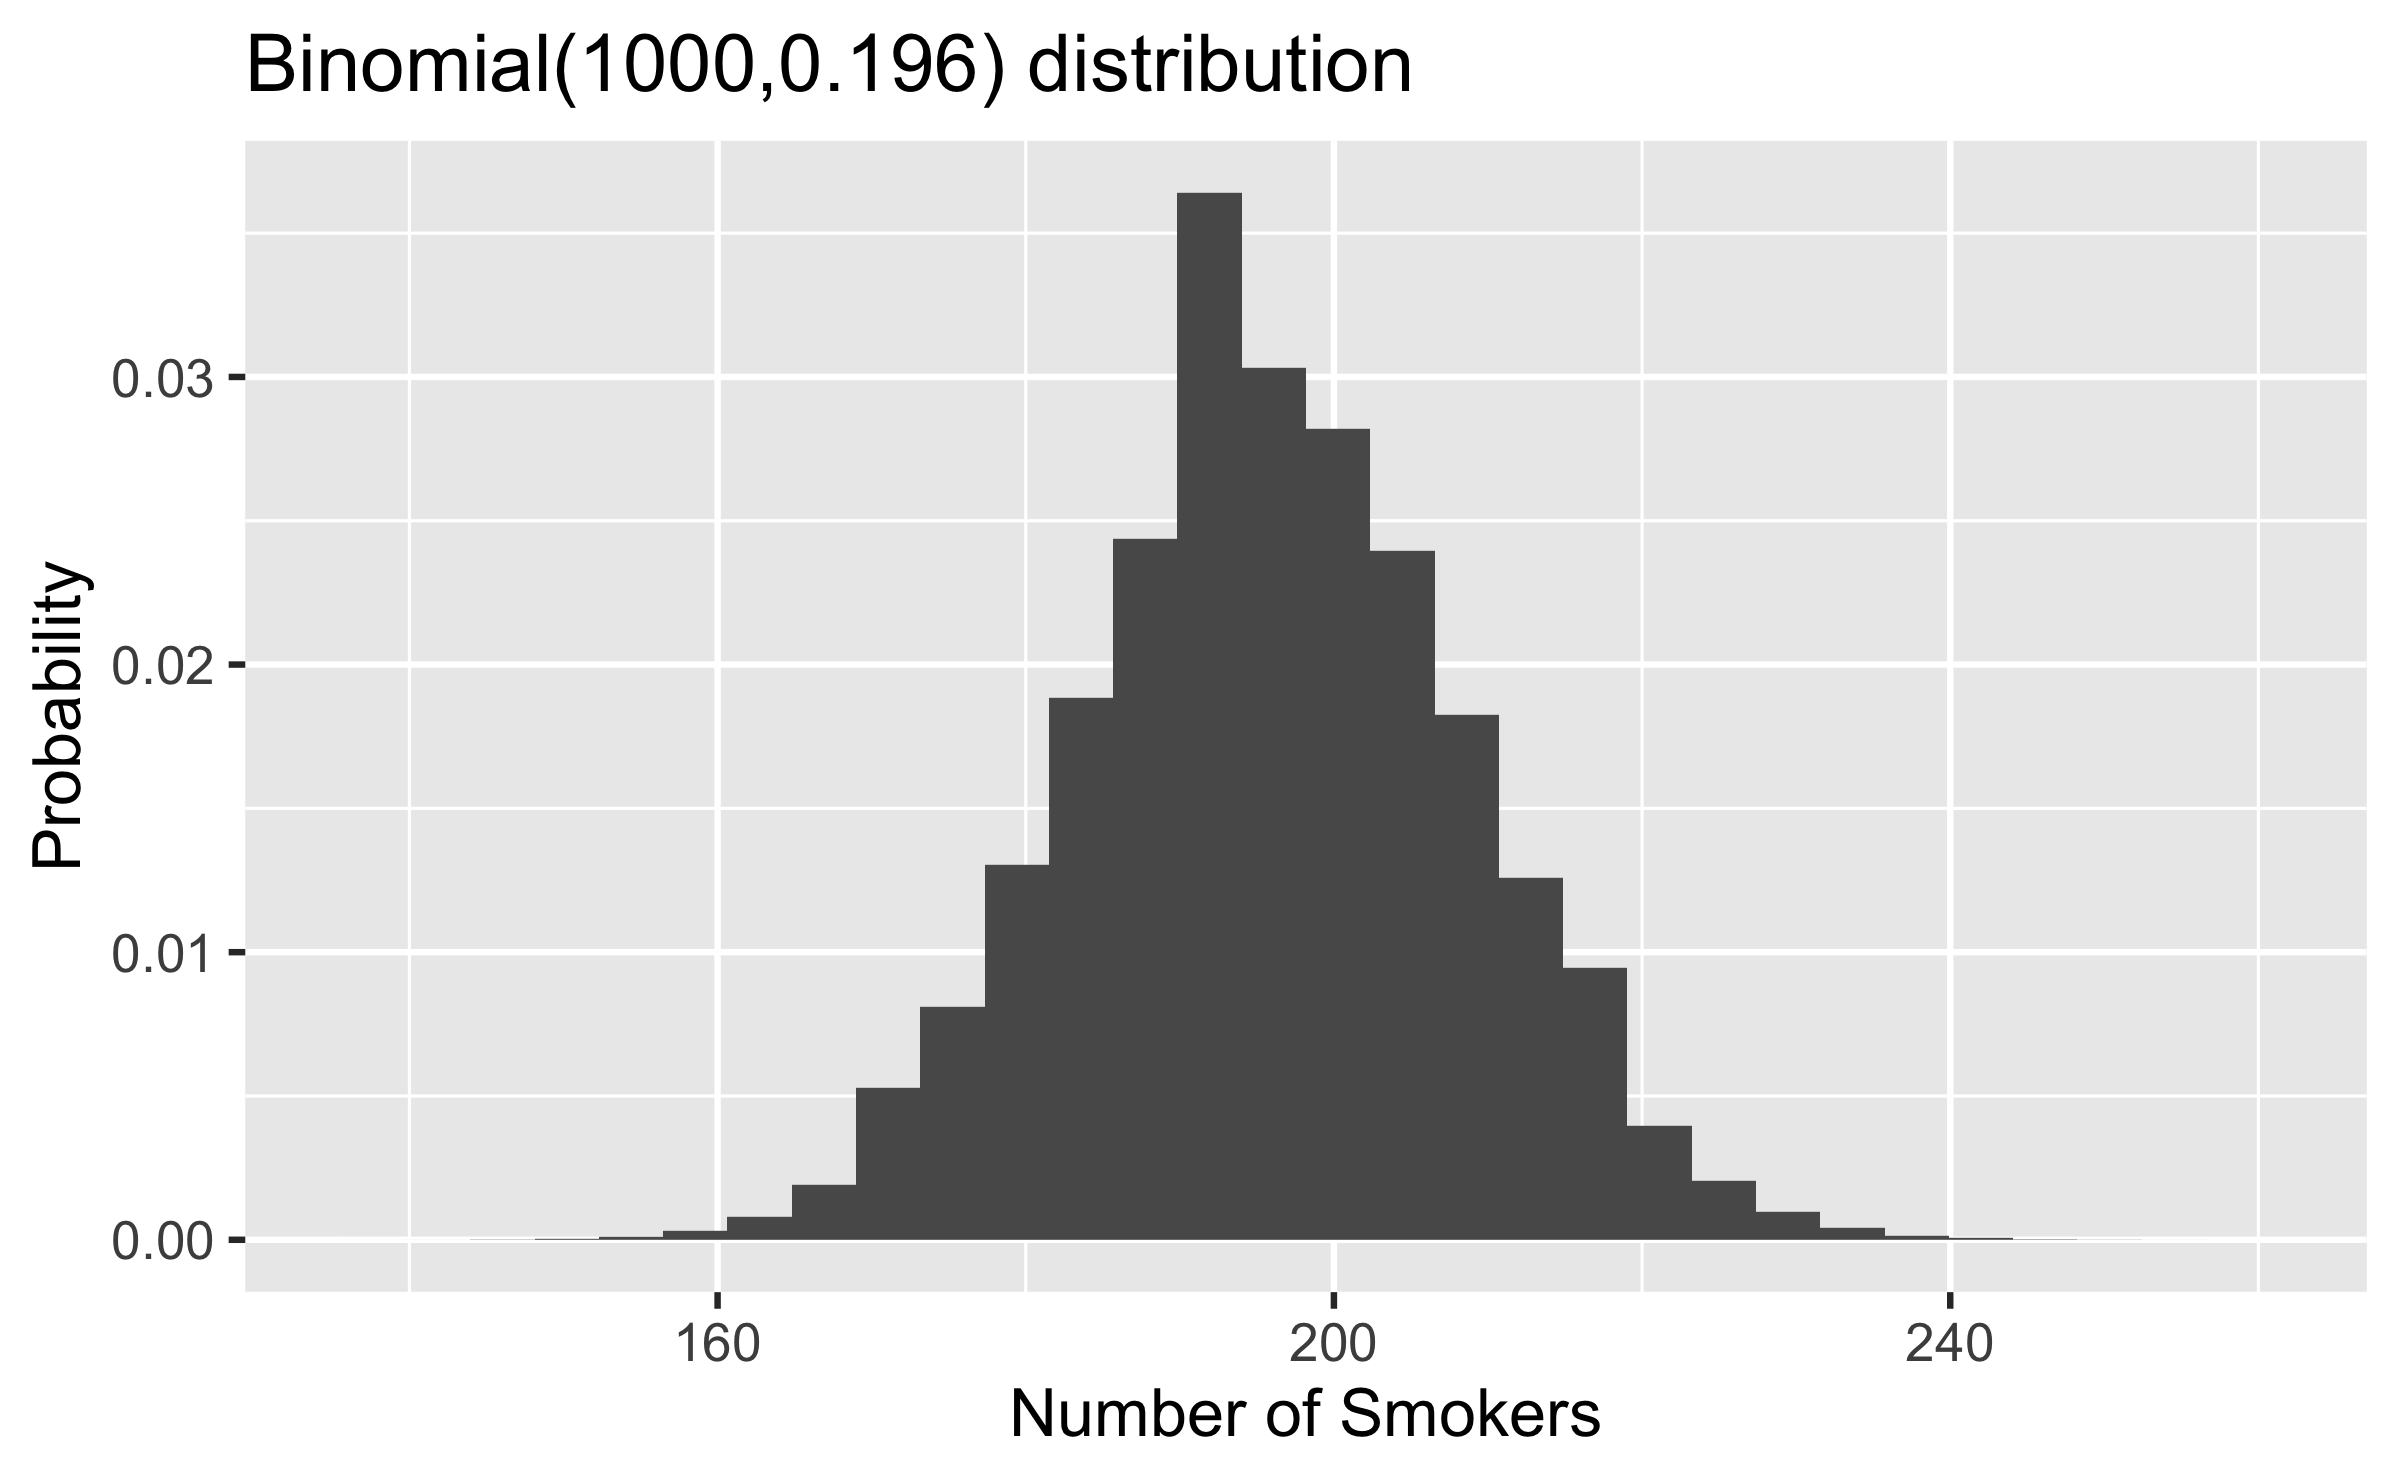
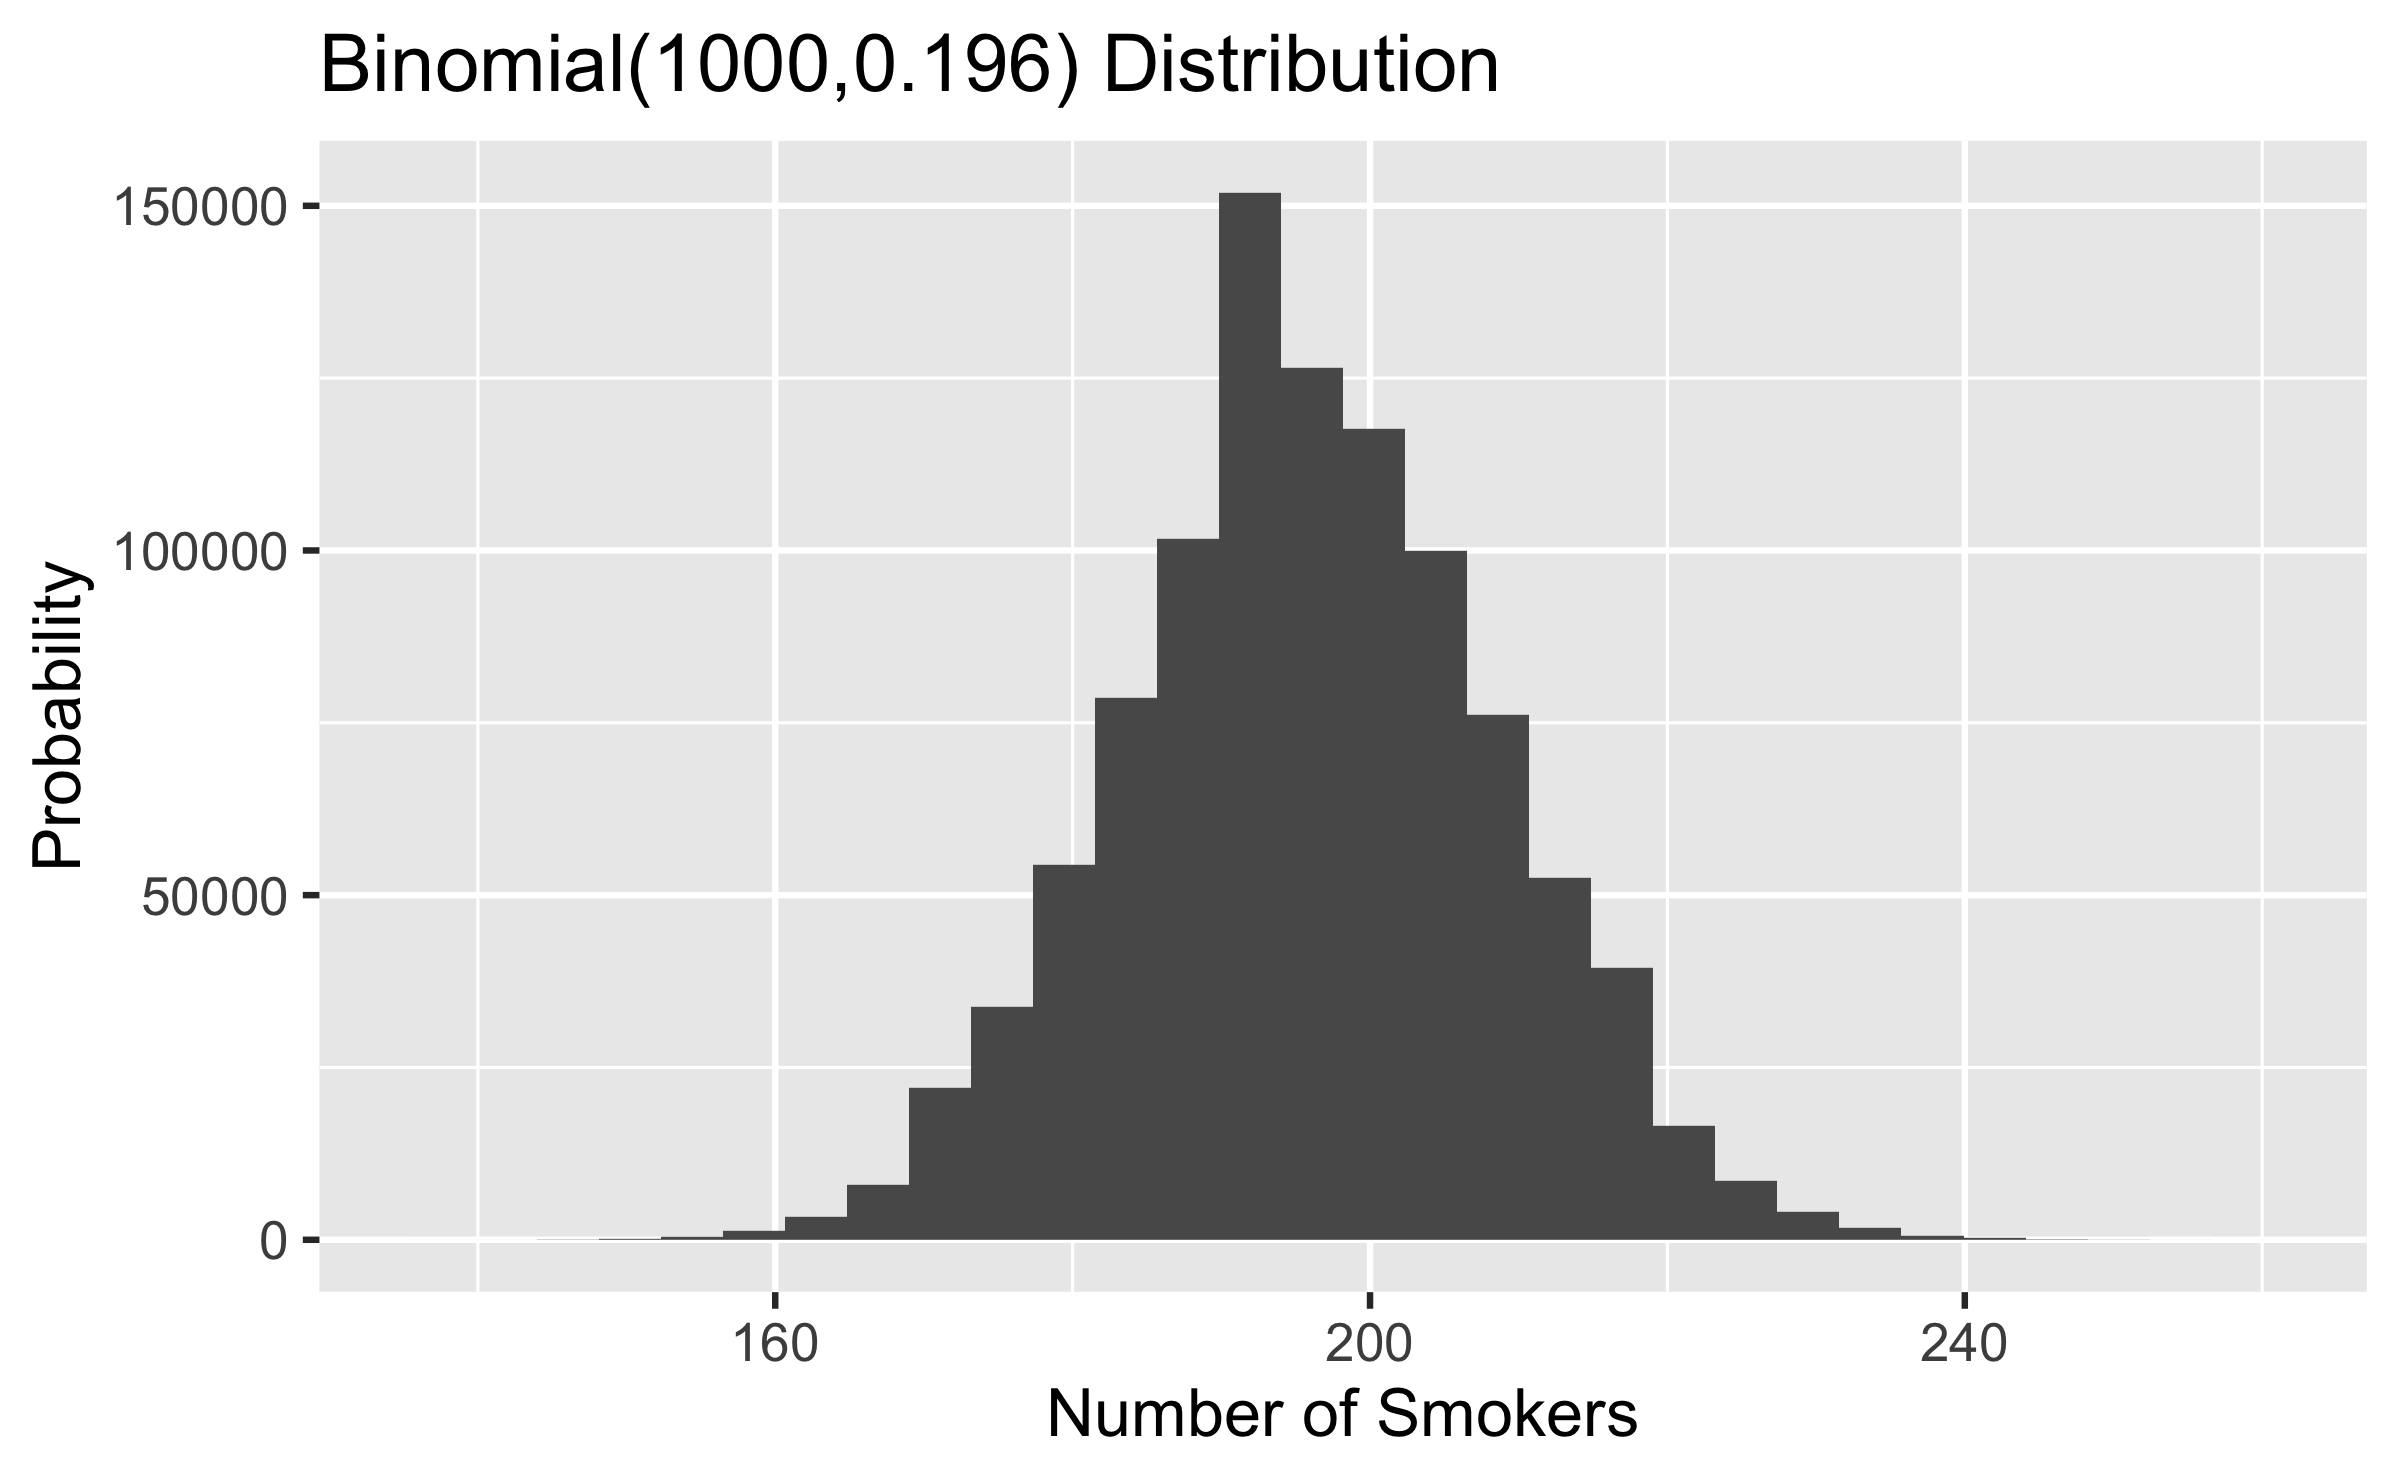
updated fri slides

diff --git a/docs/slides/week-03/w3-l02-discretedistributions.html b/docs/slides/week-03/w3-l02-discretedistributions.html
@@ -176,7 +176,7 @@ It's straightforward to fill in the rest of the table.
 |:----:|:----:|:----:|:----:|
 | 0 | 0 | 0 | `\(0.8 \times 0.8 = 0.64\)` |
 | 1 | 0 | 1 | `\(0.2 \times 0.8 = 0.16\)` |
-| 0 | 1 | 1 | `\(0.2 \times 0.8 = 0.16\)` |
+| 0 | 1 | 1 | `\(0.8 \times 0.2 = 0.16\)` |
 | 1 | 1 | 2 | `\(0.2 \times 0.2 =0.04\)` |
 ]
 
@@ -191,7 +191,7 @@ Recall our table:
 |:----:|:----:|:----:|:----:|
 | 0 | 0 | 0 | `\(0.8 \times 0.8 = 0.64\)` |
 | 1 | 0 | 1 | `\(0.2 \times 0.8 = 0.16\)` |
-| 0 | 1 | 1 | `\(0.2 \times 0.8 = 0.16\)` |
+| 0 | 1 | 1 | `\(0.8 \times 0.2 = 0.16\)` |
 | 1 | 1 | 2 | `\(0.2 \times 0.2 =0.04\)` |
 ]
 .pull-right[
@@ -224,7 +224,7 @@ Better get started with the multiplication!
 
 ---
 
-Because these are independent high school students, we can calculate the probabilities the same manner as before.
+Because these are independent high school students, we can calculate the probabilities in the same manner as before.
 
 
 | `\(Y_1\)` | `\(Y_2\)` | `\(Y_3\)` | `\(X\)` | `\(P(X)\)` |
@@ -401,13 +401,12 @@ dim(binomdata)
 
 ---
 
-
 ```r
 ggplot(binomdata, aes(x = X)) + 
-  geom_histogram(aes(y = ..density..)) +
+  geom_histogram() +
   labs(x = "Number of Smokers",
        y = "Probability",
-       title = "Binomial(1000,0.196) distribution")
+       title = "Binomial(1000,0.196) Distribution")
 ```
 
 &lt;img src="w3-l02-discretedistributions_files/figure-html/plotbinomdata-1.png" width="60%" style="display: block; margin: auto;" /&gt;
@@ -427,7 +426,7 @@ Suppose the average success (live birth) rate of this procedure per embryo is 35
 .pull-left[
 Here's what embryos look like in the first days of life. Note that days are counted differently at the beginning in regular pregnancies and in IVF.  In a regular pregnancy, dating is done back to the first day of the last menstrual period (there is no good marker of conception). So on day 1 of pregnancy, a woman is not pregnant!  Typically ovulation is around day 14 of the cycle (and thus of pregnancy).
 
-In IVF, counting starts on the day the egg is fertilized (corresponding to around day 14 of a regular pregnancy if the sperm meets the egg right away after it is released!).
+In IVF, counting starts on the day the egg is fertilized (corresponding to around day 14 of a regular pregnancy if the sperm meets the egg right away!).
 ]
 .pull-right[
 &lt;img src="embryo.jpg" width="100%" style="display: block; margin: auto;" /&gt;
@@ -449,9 +448,9 @@ How do we address this mathematically?
 
 - Let `\(Y\)` be the number of live births from a single IVF procedure that implants `\(n\)` embryos. Here's what we need to know.
 
-- Probability of having at least one baby is `\(P(Y \geq 1)\)`, which we want to be large
+  - Probability of having at least one baby: `\(P(Y \geq 1)\)`, which we want to be large
 
-- Probability of having triplets, quadruplets, or a higher-order birth is `\(P(Y&gt;2)\)`, which we want to be small
+  - Probability of having triplets, quadruplets, or a higher-order birth: `\(P(Y&gt;2)\)`, which we want to be small
 
 ---
 
@@ -476,7 +475,9 @@ Binomial distribution: `\(P(Y=y)=\begin{pmatrix} n \\ y \end{pmatrix}\pi^y(1-\pi
 
 - Similarly, `\(P(Y&gt;2)=1-P(Y=0)-P(Y=1)-P(Y=2)\)` if needed
 
-- In the easy case in which `\(n=1\)`, `\(P(Y \geq 1)=0.35\)` and `\(P(Y&gt;2)=0\)`
+- In the easy case in which `\(n=1\)`, `\(P(Y \geq 1)=0.35\)` and `\(P(Y&gt;2)=0\)`*
+
+*OK, not quite, as it is still possible for a single implanted embryo to divide, yielding twins, but we'll assume that isn't happening for now, as it's not terribly common.
 
 ---
 

diff --git a/static/slides/week-03/w3-l02-discretedistributions.html b/static/slides/week-03/w3-l02-discretedistributions.html
@@ -176,7 +176,7 @@ It's straightforward to fill in the rest of the table.
 |:----:|:----:|:----:|:----:|
 | 0 | 0 | 0 | `\(0.8 \times 0.8 = 0.64\)` |
 | 1 | 0 | 1 | `\(0.2 \times 0.8 = 0.16\)` |
-| 0 | 1 | 1 | `\(0.2 \times 0.8 = 0.16\)` |
+| 0 | 1 | 1 | `\(0.8 \times 0.2 = 0.16\)` |
 | 1 | 1 | 2 | `\(0.2 \times 0.2 =0.04\)` |
 ]
 
@@ -191,7 +191,7 @@ Recall our table:
 |:----:|:----:|:----:|:----:|
 | 0 | 0 | 0 | `\(0.8 \times 0.8 = 0.64\)` |
 | 1 | 0 | 1 | `\(0.2 \times 0.8 = 0.16\)` |
-| 0 | 1 | 1 | `\(0.2 \times 0.8 = 0.16\)` |
+| 0 | 1 | 1 | `\(0.8 \times 0.2 = 0.16\)` |
 | 1 | 1 | 2 | `\(0.2 \times 0.2 =0.04\)` |
 ]
 .pull-right[
@@ -224,7 +224,7 @@ Better get started with the multiplication!
 
 ---
 
-Because these are independent high school students, we can calculate the probabilities the same manner as before.
+Because these are independent high school students, we can calculate the probabilities in the same manner as before.
 
 
 | `\(Y_1\)` | `\(Y_2\)` | `\(Y_3\)` | `\(X\)` | `\(P(X)\)` |
@@ -401,13 +401,12 @@ dim(binomdata)
 
 ---
 
-
 ```r
 ggplot(binomdata, aes(x = X)) + 
-  geom_histogram(aes(y = ..density..)) +
+  geom_histogram() +
   labs(x = "Number of Smokers",
        y = "Probability",
-       title = "Binomial(1000,0.196) distribution")
+       title = "Binomial(1000,0.196) Distribution")
 ```
 
 &lt;img src="w3-l02-discretedistributions_files/figure-html/plotbinomdata-1.png" width="60%" style="display: block; margin: auto;" /&gt;
@@ -427,7 +426,7 @@ Suppose the average success (live birth) rate of this procedure per embryo is 35
 .pull-left[
 Here's what embryos look like in the first days of life. Note that days are counted differently at the beginning in regular pregnancies and in IVF.  In a regular pregnancy, dating is done back to the first day of the last menstrual period (there is no good marker of conception). So on day 1 of pregnancy, a woman is not pregnant!  Typically ovulation is around day 14 of the cycle (and thus of pregnancy).
 
-In IVF, counting starts on the day the egg is fertilized (corresponding to around day 14 of a regular pregnancy if the sperm meets the egg right away after it is released!).
+In IVF, counting starts on the day the egg is fertilized (corresponding to around day 14 of a regular pregnancy if the sperm meets the egg right away!).
 ]
 .pull-right[
 &lt;img src="embryo.jpg" width="100%" style="display: block; margin: auto;" /&gt;
@@ -449,9 +448,9 @@ How do we address this mathematically?
 
 - Let `\(Y\)` be the number of live births from a single IVF procedure that implants `\(n\)` embryos. Here's what we need to know.
 
-- Probability of having at least one baby is `\(P(Y \geq 1)\)`, which we want to be large
+  - Probability of having at least one baby: `\(P(Y \geq 1)\)`, which we want to be large
 
-- Probability of having triplets, quadruplets, or a higher-order birth is `\(P(Y&gt;2)\)`, which we want to be small
+  - Probability of having triplets, quadruplets, or a higher-order birth: `\(P(Y&gt;2)\)`, which we want to be small
 
 ---
 
@@ -476,7 +475,9 @@ Binomial distribution: `\(P(Y=y)=\begin{pmatrix} n \\ y \end{pmatrix}\pi^y(1-\pi
 
 - Similarly, `\(P(Y&gt;2)=1-P(Y=0)-P(Y=1)-P(Y=2)\)` if needed
 
-- In the easy case in which `\(n=1\)`, `\(P(Y \geq 1)=0.35\)` and `\(P(Y&gt;2)=0\)`
+- In the easy case in which `\(n=1\)`, `\(P(Y \geq 1)=0.35\)` and `\(P(Y&gt;2)=0\)`*
+
+*OK, not quite, as it is still possible for a single implanted embryo to divide, yielding twins, but we'll assume that isn't happening for now, as it's not terribly common.
 
 ---
 
